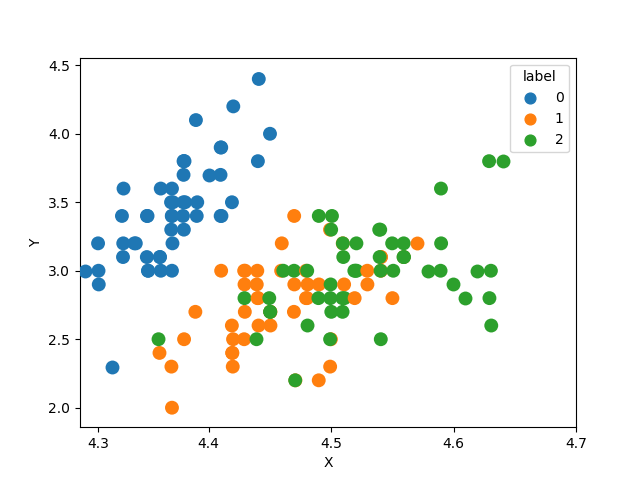
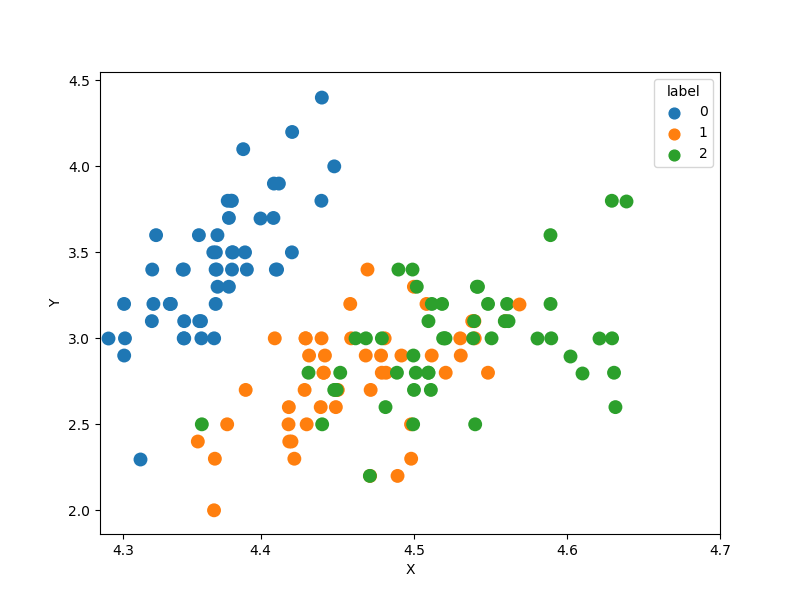
figsize

diff --git a/jitter.py b/jitter.py
@@ -25,9 +25,9 @@ if __name__ == '__main__':
     # 抖动图 : 对重合的点进行位置微调，让我们知道这里有多个点
     # jitter : 抖动幅度
     # size   : 点的大小
-    plt.figure()
+    plt.figure(figsize=(8,6))
     # 按照label进行颜色分类，并画出抖动图
-    sns.stripplot(x='X',y='Y',data=newdata,jitter=0.1,hue="label",size=10)
+    sns.stripplot(x='X',y='Y',data=newdata,jitter=0.2,hue="label",size=10)
     plt.xticks([1,10,20,30,40])
     plt.savefig("jittering with stripplot")
     plt.show()
